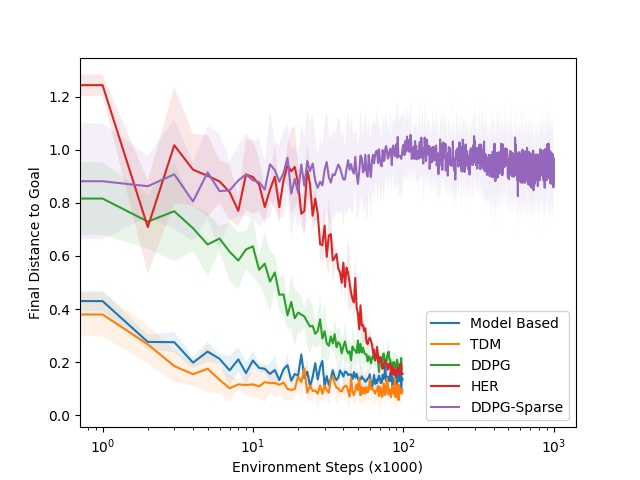
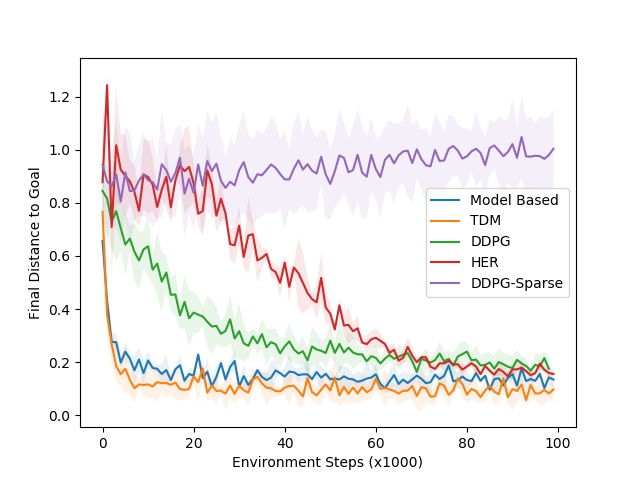
turn off log scale

diff --git a/experiments/state_distance/iclr2018/pusher_results.py b/experiments/state_distance/iclr2018/pusher_results.py
@@ -39,7 +39,7 @@ def main():
     ddpg_trials = ddpg_exp.get_trials(ddpg_criteria)
     mb_trials = mb_exp.get_trials(mb_criteria)
     our_trials = our_exp.get_trials(our_criteria)
-    MAX_ITERS = 1000
+    MAX_ITERS = 100
 
     base_key = 'Final_Euclidean_distance_to_goal_Mean'
     plt.figure()
@@ -72,7 +72,7 @@ def main():
 
 
 
-    plt.xscale('log')
+    # plt.xscale('log')
     plt.xlabel("Environment Samples (x1000)")
     plt.ylabel("Final Distance to Goal")
     plt.legend()

diff --git a/experiments/state_distance/iclr2018/reacher_results.py b/experiments/state_distance/iclr2018/reacher_results.py
@@ -44,7 +44,7 @@ mb_exp = Experiment(mb_path)
 ddpg_trials = ddpg_exp.get_trials(ddpg_criteria)
 mb_trials = mb_exp.get_trials(mb_criteria)
 
-MAX_ITERS = 1000
+MAX_ITERS = 100
 
 base_key = 'Final_Euclidean_distance_to_goal_Mean'
 plt.figure()
@@ -75,7 +75,7 @@ for trials, name, key in [
     plt.plot(epochs, mean, label=name)
 
 
-plt.xscale('log')
+# plt.xscale('log')
 plt.xlabel("Environment Steps (x1000)")
 plt.ylabel("Final Distance to Goal")
 plt.legend()
